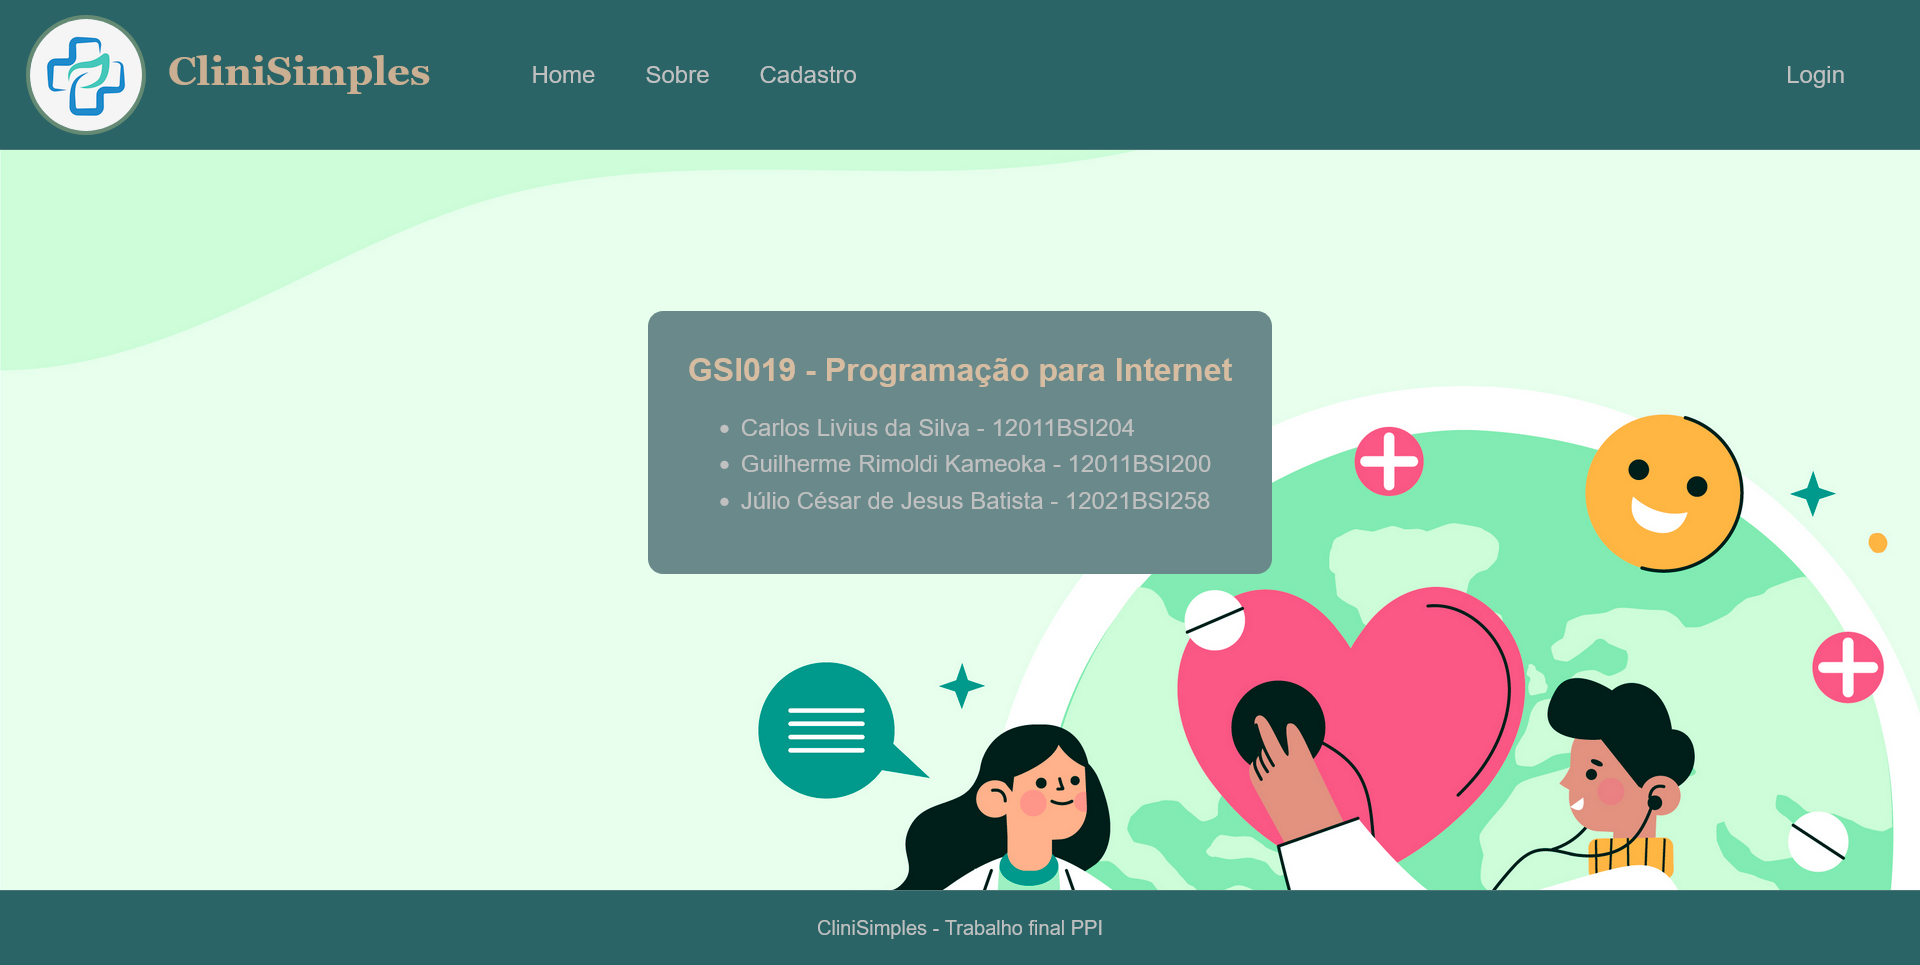
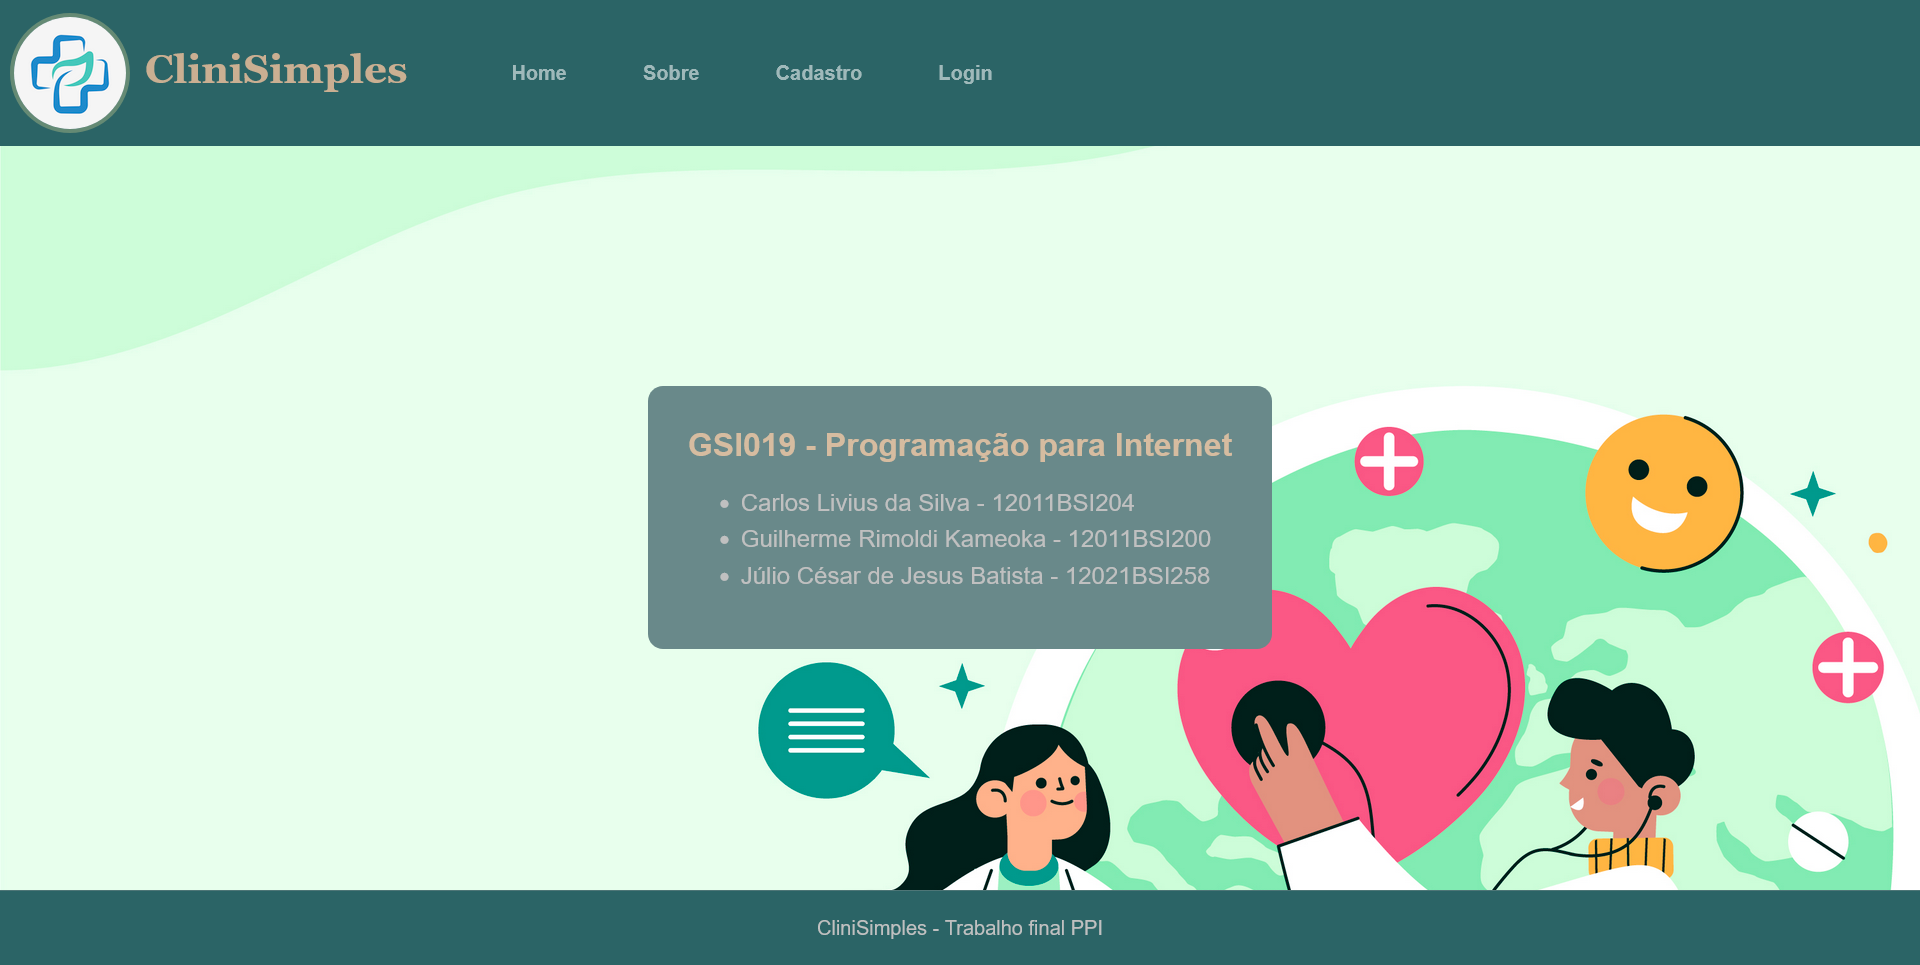
docs: link para o site

diff --git a/README.md b/README.md
@@ -9,9 +9,11 @@
   <img src="https://img.shields.io/badge/Amazon_AWS-FF9900?style=for-the-badge&logo=amazonaws&logoColor=white">  
 </div>
   
-Este repositório é dedicado ao trabalho final da disciplina GSI019 - Programação para Internet (PPI)
+Este repositório é dedicado ao trabalho final da disciplina GSI019 - Programação para Internet (PPI).  
+Acesse o site clicando neste 
+<a href="http://guilhermekameoka.42web.io/trabalho-final/index.html" target="_blank">link</a>.
 
-<img src="frontend.png">
+<img src="./frontend.png">
 
 ## Descrição
 
